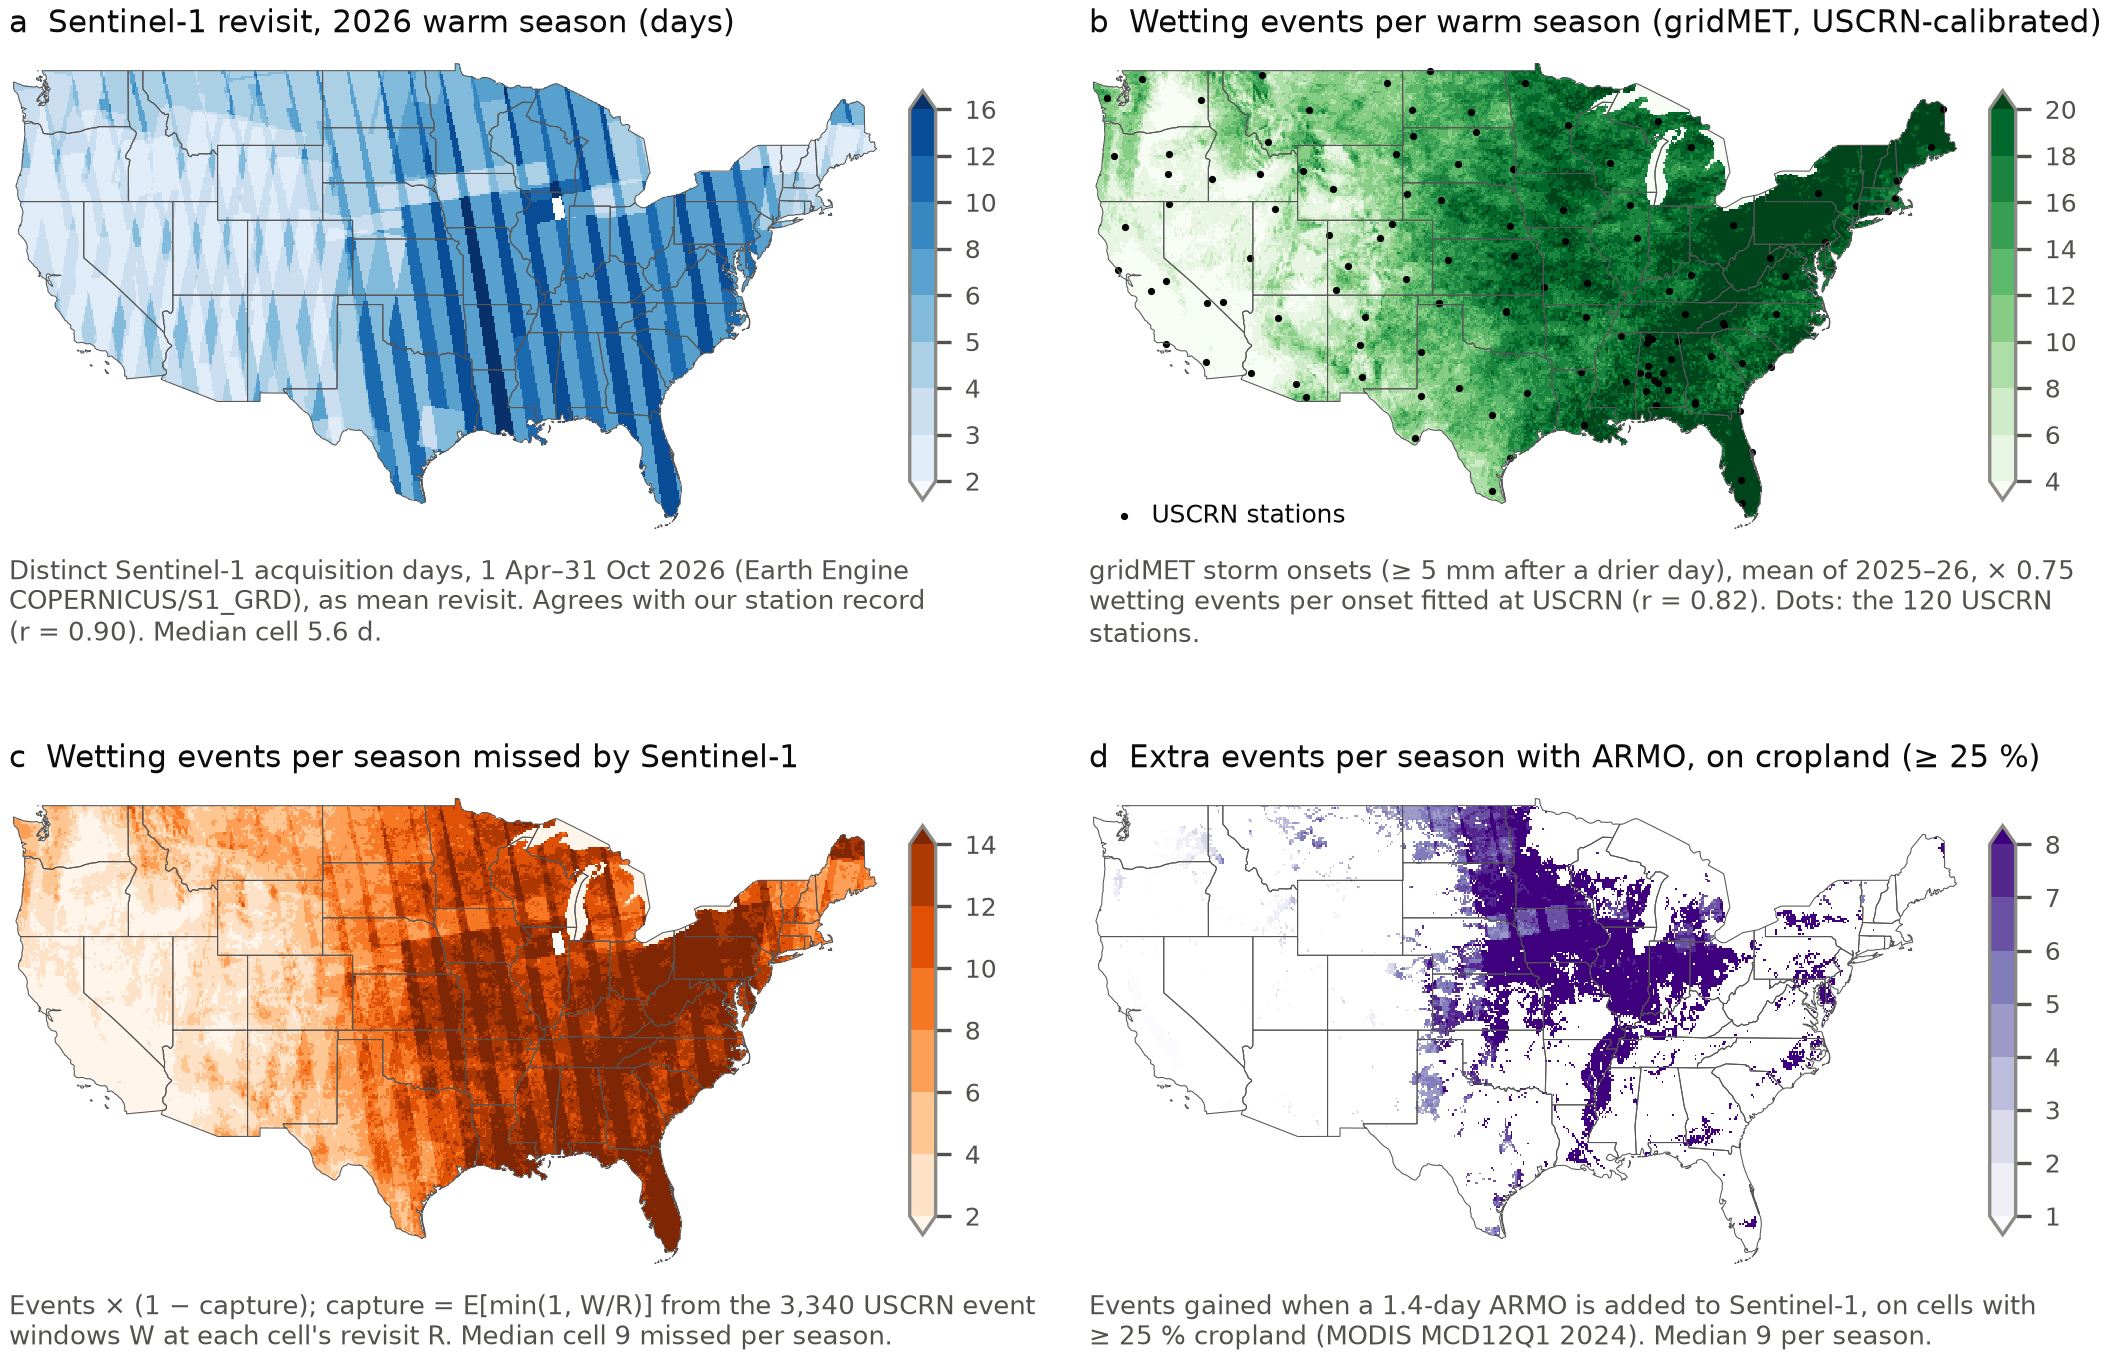
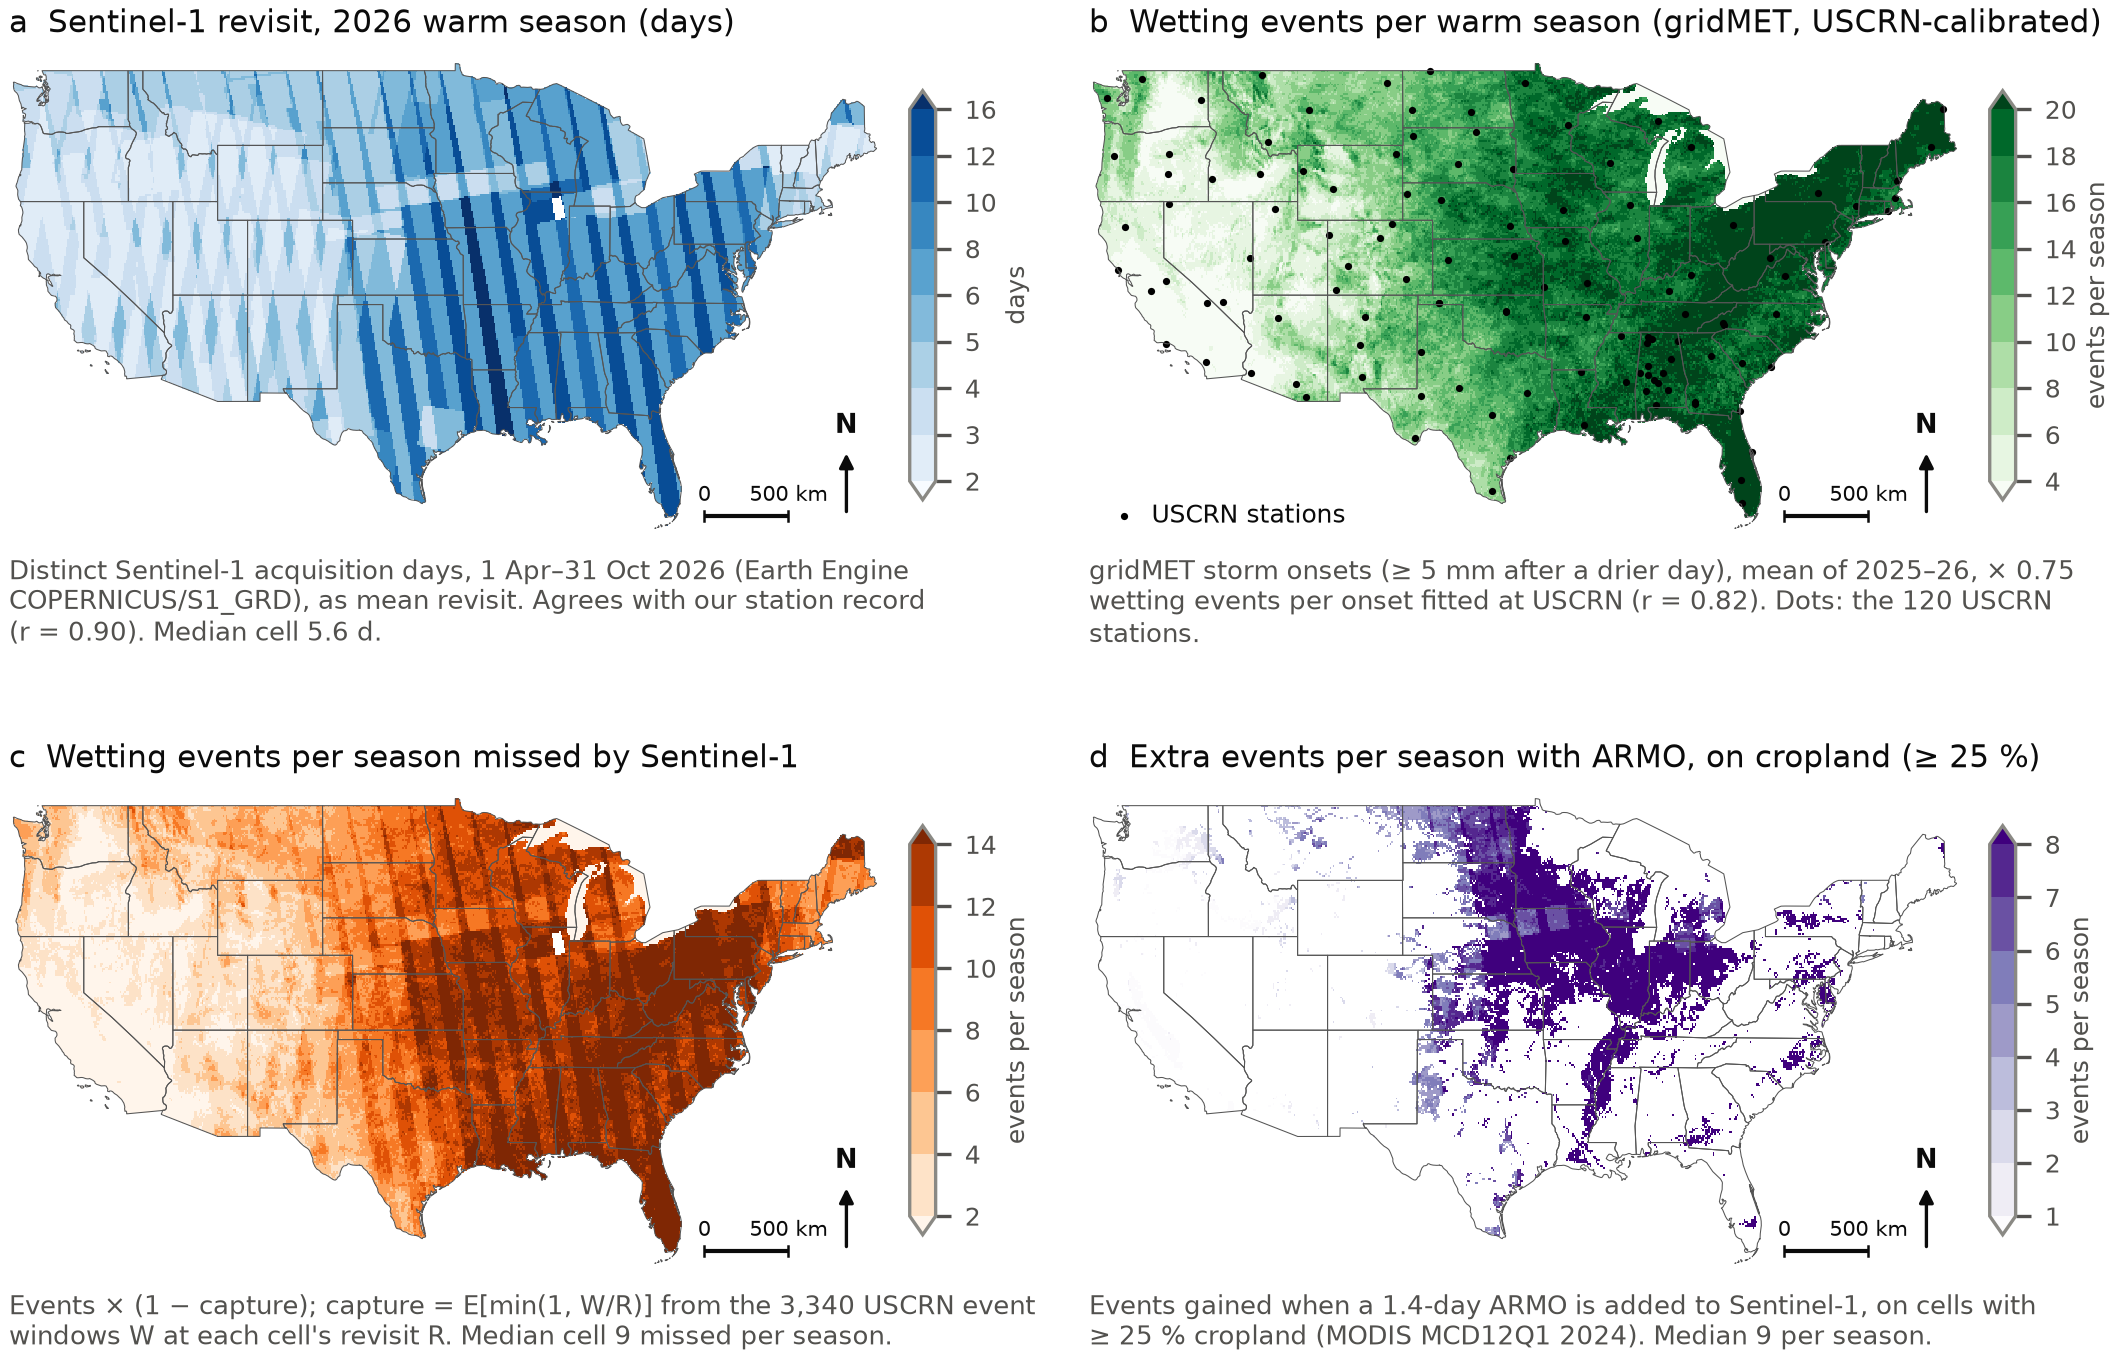
Add scale bar, north arrow and units to the need maps
Every panel of figures/fig1_need_maps.png now has a 500 km scale bar
(true at 37 N, the map's aspect latitude), a north arrow and a unit label
on its colour bar, as the course template requires for maps. Redrawn
from the cached Earth Engine results; no numbers changed.

diff --git a/code/10_gee_need_maps.py b/code/10_gee_need_maps.py
@@ -183,6 +183,8 @@ def figure(R, E, missed, gain, stn, sm):
               (E, "b  Wetting events per warm season (gridMET, USCRN-calibrated)", "Greens", [4, 6, 8, 10, 12, 14, 16, 18, 20]),
               (missed, "c  Wetting events per season missed by Sentinel-1", "Oranges", [2, 4, 6, 8, 10, 12, 14]),
               (gain, "d  Extra events per season with ARMO, on cropland (≥ 25 %)", "Purples", [1, 2, 3, 4, 5, 6, 7, 8])]
+    units = ["days", "events per season", "events per season", "events per season"]
+    bar_deg = 500 / (111.32 * np.cos(np.deg2rad(37.0)))   # 500 km in longitude, true at 37° N (the aspect latitude)
     mw = 0.405                                          # map width (figure fraction); CONUS box is 58.5 x 26 deg
     mh = mw * W_IN * (26 * ASP / 58.5) / H_IN
     for k, ((arr, title, cmap, bounds), cap) in enumerate(zip(panels, caps)):
@@ -201,10 +203,20 @@ def figure(R, E, missed, gain, stn, sm):
         ax.set_xlim(-125, -66.5); ax.set_ylim(24, 50); ax.set_xticks([]); ax.set_yticks([]); ax.set_aspect(ASP)
         for sp in ax.spines.values():
             sp.set_visible(False)
+        # scale bar and north arrow (template requirement), in the open Atlantic east of Florida
+        bx, by = -78.5, 25.2
+        ax.plot([bx, bx + bar_deg], [by, by], color=figstyle.INK, lw=1.0, solid_capstyle="butt")
+        for xx, lab in [(bx, "0"), (bx + bar_deg, "500 km")]:
+            ax.plot([xx, xx], [by - 0.25, by + 0.25], color=figstyle.INK, lw=0.6)
+            ax.text(xx, by + 0.55, lab, fontsize=5, ha="center", va="bottom", color=figstyle.INK)
+        ax.annotate("", xy=(-69.0, 29.0), xytext=(-69.0, 25.0),
+                    arrowprops=dict(arrowstyle="-|>", color=figstyle.INK, lw=0.8, mutation_scale=7))
+        ax.text(-69.0, 29.3, "N", fontsize=6.5, fontweight="bold", ha="center", va="bottom", color=figstyle.INK)
         fig.text(x0, y0 + mh + 0.008, title, fontsize=7.5, ha="left", va="bottom")
         cax = fig.add_axes([x0 + mw + 0.012, y0 + 0.08 * mh, 0.012, 0.84 * mh])
         cb = fig.colorbar(im, cax=cax)
         cb.ax.tick_params(labelsize=6)
+        cb.set_label(units[k], fontsize=6, color=figstyle.INK2, labelpad=2)
         fig.text(x0, y0 - 0.012, textwrap.fill(cap.replace("r = ", "r = ").replace("≥ ", "≥ ").replace(" %", " %"), 76), fontsize=6.3, color=figstyle.INK2, ha="left", va="top",
                  linespacing=1.15)
     out = os.path.join(FIG, "fig1_need_maps.png")
